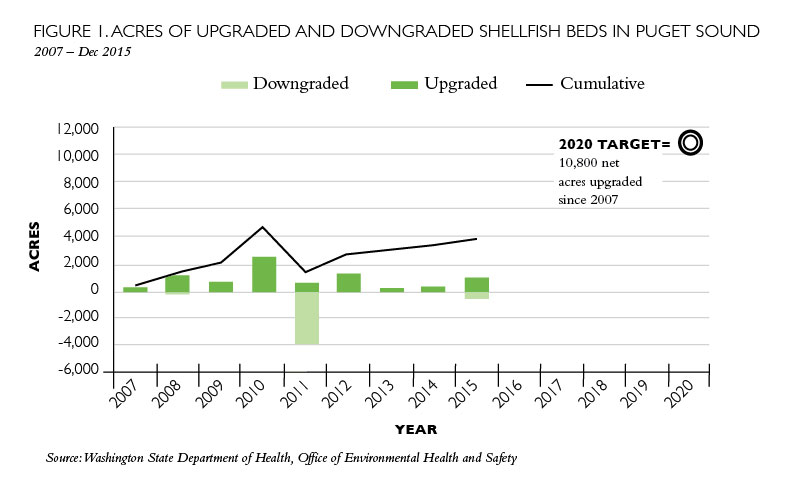
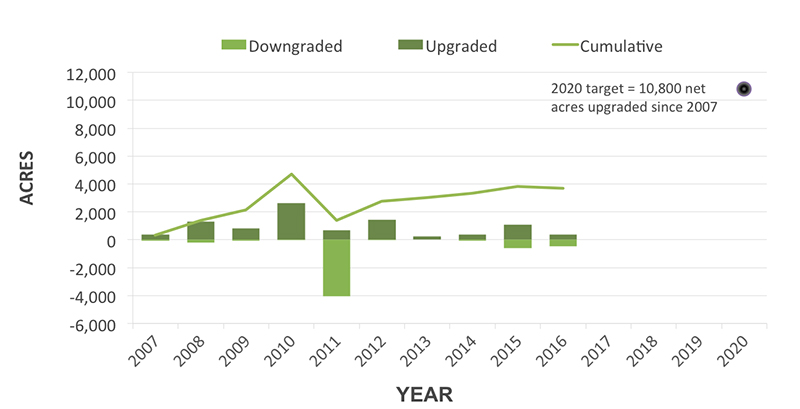
shellfish

diff --git a/includes/shellfish_title.html b/includes/shellfish_title.html
@@ -15,7 +15,7 @@
 		</div>
 		<div id="vitalheaderrightphoto">
 			
-			<div class="photoCredit">Data last updated on January 29, 2016<br />
+			<div class="photoCredit">Data last updated on October 31, 2016<br />
 			Photo Credit: Taylor Shellfish Farms</div></div>
 	</div>
 	<div id="roundcornerbottom"><img src="img/rounded_rounded_bottom.jpg" width="960" height="20" /></div>

diff --git a/shellfish_beds_reopened_indicator1.php b/shellfish_beds_reopened_indicator1.php
@@ -41,11 +41,11 @@ $(function() {
 				<!--*********************************GREEN HEADER*********************************-->
 				<div class="greenBarHeader">What is the indicator? </div>
 				<h5>This indicator is the acres of harvestable shellfish beds.</h5>
-				<p>The Washington State Department of Health classifies 92 different shellfish growing areas in Puget Sound, covering roughly 190,000 acres. Upgrades in classification mean that water quality has improved, allowing for fewer restrictions on shellfish harvest. </p>
-				<p>Sites are classified as “approved,” “conditionally approved,” “restricted,” or “prohibited.” Downgrades mean there are either more restrictions on when shellfish may be harvested or no harvest is allowed at any time. Downgrades are generally caused by fecal bacteria or other pollutants in the water that make shellfish unsafe to eat. Any shellfish bed, whether in the prohibited or restricted class, whose status is upgraded, results in newly harvestable acres are counted toward the 2020 target. </p>
-				<p>The shellfish harvest area classification process is defined in federal rules and adopted in state regulations. The Department of Health implements the rules at the state level. The purpose of the Department of Health program is to assure that harvested shellfish are safe to consume. This also includes making certain that pollution sources are continually assessed and marine water quality monitored around every classified harvest area. The data collected for the classification process not only represent the conditions that dictate shellfish harvest, but their trends can also indicate a healthier Puget Sound.</p>
-				<p>Department of Health samples more than 1,200 marine water stations between six and 12 times each year for fecal coliform bacteria, salinity, and temperature. A minimum of 30 of the most recent samples from each marine water station are used to classify each shellfish harvesting area. In addition, shoreline pollution sources, including wastewater treatment plants, individual on-site sewage systems, marinas, farms, and any other activity with the potential to impact the shellfish area, are evaluated periodically and results are integrated in the classification process. </p>
-				
+				<p>The Washington State Department of Health classifies  95 different shellfish growing areas in Puget Sound, covering roughly  225,000 acres. Upgrades in classification mean that water quality has improved, allowing for fewer restrictions on shellfish harvest. </p>
+				  <p>Sites are classified as &ldquo;approved,&rdquo; &ldquo;conditionally approved,&rdquo; &ldquo;restricted,&rdquo; or &ldquo;prohibited.&rdquo; Downgrades mean there are either more restrictions on when shellfish may be harvested or no harvest is allowed at any time. Downgrades are generally caused by fecal bacteria or other pollutants in the water that make shellfish unsafe to eat. Any shellfish beds  classified as conditionally approved, restricted, or prohibited  whose status is upgraded, results in newly harvestable acres and are counted toward the 2020 target.</p>
+				  <p>The shellfish harvest area classification process is defined in federal rules and adopted in state regulations. The Department of Health implements the rules at the state level. The purpose of the Department of Health program is to assure that harvested shellfish are safe to consume. This also includes making certain that pollution sources are continually assessed and marine water quality monitored around every classified harvest area. The data collected for the classification process not only represent the conditions that dictate shellfish harvest, but their trends can also indicate a healthier Puget Sound.</p>
+			    <p>Department of Health samples more than  1,700 marine water stations between  6 and 12 times each year for fecal coliform bacteria, salinity, and temperature. A minimum of 30 of the most recent samples from each marine water station are used to classify each shellfish harvesting area. In addition, shoreline pollution sources, including wastewater treatment plants, individual on-site sewage systems, marinas, farms, and any other activity with the potential to impact the shellfish area, are evaluated periodically and results are integrated in the classification process. </p>
+
 				<!--	<table width="690" border="1" class="vstable">
 					<tbody>
 					
@@ -87,7 +87,7 @@ $(function() {
 				--> 
 				<!--*********************************GREEN HEADER*********************************-->
 				</p>
-				<div class="greenBarHeader">What are the targets?</div>
+			  <div class="greenBarHeader">What are the targets?</div>
 				<h5>2020 target</h5>
 				<p>A net increase of 10,800 harvestable shellfish acres between 2007 and 2020, including 7,000 acres where harvest had been prohibited.</p>
 				<h5>Interim target</h5>
@@ -111,17 +111,21 @@ $(function() {
 			<div>
 				<h5>Is the indicator making progress toward the 2020 target? </h5>
 				<p> <span><img src="images/status_getting_better.png" width="118" height="121" alt=""/>Yes, this indicator has made gains relative to the baseline reference.</p>
-				<p>Because there was an overall increase in cumulative net area since 2007, including from the prohibited category, the indicator is making progress toward 2020 target. </p>
-				<p>The shellfish growing areas in Puget Sound cover roughly 190,000 acres. About 81% (154,000 acres) of the shellfish growing areas are suitable for harvest. </p>
-				<p>Since 2007 (the baseline reference), more acres of shellfish beds were upgraded than downgraded across all classifications, resulting in a net increase of 3,813 acres of harvestable shellfish beds (8,893 acres gain, 5,080 acres loss). During the same time period, a net 4,339 acres of shellfish beds were upgraded from the “prohibited” classification (4,535 acres upgraded minus 196 acres downgraded to “prohibited”). </p>
-				<p>However, little progress has been made since 2012. The upgrades in growing area classifications since 2007 were dramatically offset by the 2011 downgrade of the Samish Bay shellfish growing area (4,037 acres), impacting the overall net acreage gained and slowing progress toward the 2020 target.</p>
-				<p>Little progress has been made since the setback in 2011, and thus the current net increase in harvestable shellfish area is only at 26% of the 2020 target. </p>
-				<h5>Did the indicator meet its 2014 interim target?</h5>
+				<p>Because there was an overall increase in cumulative net area of harvestable shellfish beds since 2007, including from the prohibited category, the indicator is making progress toward the 2020 target.</p>
+				  <p>The shellfish growing areas in Puget Sound cover roughly  225,000 acres. About  84% ( 188,000 acres) of the shellfish growing areas are suitable for harvest.</p>
+				  <p>Since 2007 (the baseline reference), more acres of shellfish beds were upgraded than downgraded across all classifications, resulting in a net increase of  3,695 acres of harvestable shellfish beds ( 9,254 acres gain,  5,559 acres loss). During the same time period, a net  4,540 acres of shellfish beds were upgraded from the &ldquo;prohibited&rdquo; classification ( 4,745 acres upgraded minus  205 acres downgraded to &ldquo;prohibited&rdquo;).</p>
+				  <p>The upgrades in growing area classifications since 2007 were dramatically offset by the 2011 downgrade of the Samish Bay shellfish growing area (4,037 acres), impacting the overall net acreage gained and slowing progress toward the 2020 target.</p>
+			    <p>The current net increase in harvestable shellfish area is  34% of the 2020 target. </p>
+<h5>Did the indicator meet its 2014 interim target?</h5>
+                <p>No, this indicator did not meet its 2014 interim target.</p>
+                
+                <h3>
+					TABLE 1.</h3> 
+                    <h4>PROGRESS TOWARD 2014 INTERIM TARGET</h4>
+					</caption>
 				<!-- TABLE 1 -->
 				<table width="600" border="1" cellspacing="0" cellpadding="0" class="vstable">
-					<caption>
-					TABLE 1: PROGRESS TOWARD 2014 INTERIM TARGET
-					</caption>
+					
 					<thead>
 						<tr>
 							<th>2014 INTERIM TARGET</th>
@@ -141,19 +145,24 @@ $(function() {
 				
 				<!--*********************************GREEN HEADER*********************************-->
 				<div class="greenBarHeader">Data</div>
-				<p> <img src="images/shellfish_2007-dec2015.jpg" width="800" height="487" alt=""/></p>
-				<p>Since 2007, the baseline reference year, sanitary conditions in some shellfish harvest areas improved enough to change their classifications for the better, and they were upgraded (cumulative total was 8,893 acres as of Dec 2015). However, others changed for the worse and were downgraded (cumulative total of 5,080 acres, the majority of which was in Samish Bay). The net result was an increase of 3,813 acres reopened for harvest for all of Puget Sound, which is about 35% of the 2020 target of 10,800 acres. </p>
-				<!-- TABLE 2 -->
+              <h3>FIGURE 1.</h3>
+          <h4>ACRES OF UPGRADED AND DOWNGRADED SHELLFISH BEDS IN PUGET SOUND<br />
+          <em>2007 through September 2016</em> </h4>
+				<p> <img src="images/shellfish_2007-dec2015.jpg" alt="ACRES OF UPGRADED AND DOWNGRADED SHELLFISH BEDS IN PUGET SOUND"/></p>
+				<blockquote><p><em>Source: Washington State Department of Health, Office of Environmental Health and Safety</em></p></blockquote>
+				  <p>Since 2007, the baseline reference year, sanitary conditions in some shellfish harvest areas improved enough to change their classifications for the better, and they were upgraded (cumulative total was  9,254 acres as of September 30, 2016). However, others changed for the worse and were downgraded (cumulative total of  5,559 acres, the majority of which was in Samish Bay). The net result was an increase of  3,695 acres reopened for harvest for all of Puget Sound, which is about  34% of the 2020 target of 10,800 acres. </p>
+<h3>TABLE 2.</h3> <h4>CLASSIFICATION AND ACREAGE OF SHELLFISH GROWING AREAS IN PUGET SOUND</h4>
+			    <!-- TABLE 2 -->
 				<table width="690" border="1" class="vstable">
-					<caption>
-					TABLE 2. CLASSIFICATION AND ACREAGE OF SHELLFISH GROWING AREAS IN PUGET SOUND
-					</caption>
-					<thead>
+					
+					
+					
+				  <thead>
 						<tr>
 							<th width="300">CLASSIFICATION</th>
 							<th width="600">DEFINITION</th>
 							<th width="100">ACREAGE
-								 (Dec 2015)</th>
+								(Jan 2016 )</th>
 						</tr>
 					</thead>
 					<tfoot><tr><td colspan="3">Source: Washington State Department of Health, Office of Environmental Health and Safety</td></tr></tfoot>
@@ -163,7 +172,7 @@ $(function() {
 						<tr class="lightgreen">
 							<td width="300">Approved: commercial harvest for direct marketing</td>
 							<td width="600">Sanitary survey shows the area is not subject to contamination that presents an actual or potential public health hazard.</td>
-							<td width="100">143,678</td>
+							<td width="100">143,997</td>
 						</tr>
 						<tr>
 							<td width="300">Conditionally Approved: opened or closed for predictable periods of time</td>
@@ -173,17 +182,17 @@ $(function() {
 						<tr class="lightgreen">
 							<td width="300">Restricted: cannot be marketed directly and must be transplanted to Approved growing areas for a specified amount of time</td>
 							<td width="600">Meets standards for an Approved criteria, but the sanitary survey indicates&nbsp;a limited degree of pollution from non-human sources. Harvest must be transplanted to Approved growing areas to allow shellfish to naturally cleanse themselves of&nbsp;contaminants before they can be marketed.&nbsp;&nbsp;</td>
-							<td width="100">247</td>
+							<td width="100">33,671 </td>
 						</tr>
 						<tr>
 							<td width="300">Prohibited: closed to commercial and recreational harvest</td>
 							<td width="600">When the sanitary survey indicates harmful substances may be present in concentrations that pose a health risk. Growing areas that have not undergone a sanitary survey are also classified as Prohibited.</td>
-							<td width="100">36,478</td>
+							<td width="100">36,755 </td>
 						</tr>
 						<tr class="lightgreen">
 							<td width="300">Total</td>
 							<td width="600">&nbsp;</td>
-							<td width="100"><strong>191,025</strong></td>
+							<td width="100"><strong>225,045</strong> </td>
 						</tr>
 					</tbody>
 				</table>
@@ -191,12 +200,11 @@ $(function() {
 				
 				<br />
 				<br />
-				
+				<h3>TABLE 3.</h3>
+                <h4>GROWING AREAS WITH CLASSIFICATION CHANGES IN 2016 (as of September 30, 2016)</h4>
 				<!-- TABLE 3 -->
-				<table width="600" border="1" class="vstable">
-					<caption>
-					Growing Areas with Classification Changes in 2014 and 2015 (as of May 2015)
-					</caption>
+			  <table width="600" border="1" class="vstable">
+					
 					<thead>
 						<tr>
 							<th> GROWING AREA</th>
@@ -214,73 +222,66 @@ $(function() {
 						<tr class="lightgreen">
 							<td>PORTAGE BAY</td>
 							<td>0</td>
-							<td>-496</td>
+							<td>-300</td>
 							<td>Approved</td>
 							<td>Conditional</td>
 						</tr>
 						<tr>
 							<td>POVERTY BAY</td>
-							<td>129</td>
 							<td>0</td>
-							<td>Conditional</td>
+							<td>-130</td>
 							<td>Approved</td>
+							<td>Conditional</td>
 						</tr>
 						<tr class="lightgreen">
-							<td>PICKERING PASSAGE</td>
+							<td>PADILLA BAY</td>
+							<td>151</td>
 							<td>0</td>
-							<td>-31</td>
-							<td>Approved</td>
 							<td>Conditional</td>
+							<td>Approved</td>
 						</tr>
 						<tr>
 							<td>VAUGH BAY</td>
 							<td>0</td>
-							<td>-55</td>
+							<td>-40</td>
 							<td>Approved</td>
 							<td>Conditional</td>
 						</tr>
 						<tr class="lightgreen">
-							<td>HOOD CANAL 6</td>
+							<td>ROCKY BAY</td>
 							<td>0</td>
-							<td>-17</td>
+							<td>-9</td>
 							<td>Approved</td>
-							<td>Conditional</td>
+							<td>Prohibited</td>
 						</tr>
 						<tr>
-							<td>KETRON ISLAND</td>
-							<td>208</td>
+							<td>QUARTERMASTER HARBOR</td>
+							<td>180</td>
 							<td>0</td>
 							<td>Prohibited</td>
 							<td>Approved</td>
 						</tr>
 						<tr class="lightgreen">
-							<td>DUNGENESS BAY</td>
-							<td>688</td>
-							<td>0</td>
-							<td>Conditional</td>
-							<td>Approved</td>
-						</tr>
-						<tr>
-							<td>DUNGENESS BAY</td>
-							<td>40</td>
+							<td>COLVOS PASSAGE</td>
+							<td>30</td>
 							<td>0</td>
 							<td>Prohibited</td>
-							<td>Conditional</td>
+							<td>Approved</td>
 						</tr>
+						
 					</tbody>
 				</table>
 				
-<p>Only 264 acres and 358 acres of shellfish beds were reopened for harvest in 2013 and 2014, respectively. Comparatively little acreage was downgraded in those same years (no downgrades in 2013 and only 49 acres in 2014). In 2015, 1,065 acres of growing area were downgraded as of Dec.</p>
-<p>Of the total harvest area classified in 2015, approximately 154,000 acres, or 81% were “approved” or “conditionally approved” for harvest. Thus, shellfish harvest is still possible in most of the areas under Department of Health jurisdiction, and these areas are distributed across all sub-basins of Puget Sound.</p>
-<p>In contrast, more than 36,000 acres (19%) of shellfish harvest areas were classified as “prohibited” due to the proximity of pollution sources or poor water quality. More than 60% of this acreage is prohibited because of a nearby wastewater treatment plant outfall, 29% because of nonpoint pollution sources, 8% because of marinas, and 2% because of other factors that could impact public health.</p>
-<p>The most recent Department of Health prediction indicates that 9,393 acres could potentially be upgraded between 2014 and 2020. This analysis incorporates information about the known or suspected causes of harvest restrictions and an area-by-area evaluation of the current activities and water quality trends. These projections, coupled with the current 2007 through September 2014 net acreage increase of 3,057 acres, results in a potential increase of 12,450 acres by 2020, just above the 10,800 acres target value. Downgrades will occur during the same timeframe, counteracting the projected upgrades and potentially impacting the ability to meet the target value. </p>
+<p> In 2014, water quality improved on 358 acres of shellfish harvesting areas; improvements were found on 1,065 acres in 2015. Comparatively, water quality impairment resulted in restrictions on 49 acres of harvest area in 2014 and 599 acres in 2015.</p>
+ <p>Of the total harvest area classified in  2016, approximately 154,000 acres, or  68% were &ldquo;approved&rdquo; or &ldquo;conditionally approved&rdquo; for harvest. Thus, shellfish harvest is still possible in most of the areas under Department of Health jurisdiction, and these areas are distributed across all sub-basins of Puget Sound.</p>
+ <p>In contrast, more than 36,000 acres ( 16%) of shellfish harvest areas were classified as &ldquo;prohibited&rdquo; due to the proximity of pollution sources or poor water quality. More than 60% of this acreage is prohibited because of a nearby wastewater treatment plant outfall, 29% because of nonpoint pollution sources, 8% because of marinas, and 2% because of other factors that could impact public health.</p>
+<p>The most recent Department of Health prediction indicates that  10,285 acres could potentially be upgraded between  2016 and 2020. This analysis incorporates information about the known or suspected causes of harvest restrictions and an area-by-area evaluation of the current activities and water quality trends. These projections, coupled with the current 2007 through September  2016 net acreage increase of  3,695 acres, results in a potential increase of  13,980 acres by 2020,  above the 10,800 acres target value. Downgrades will occur during the same timeframe, counteracting the projected upgrades and potentially impacting the ability to meet the target value. </p>
 <h5>Why is it happening? </h5>
-<p>Implementation of effective pollution identification and correction (PIC) and on-site sewage system operation and maintenance programs have resulted in the correction of pollution sources. These corrections have led to improved water quality and upgraded shellfish acreage.</p>
+<p>Implementation of effective pollution identification and correction (PIC) programs, agricultural best management practices, and on-site sewage system operation and maintenance programs have resulted in the correction of pollution sources. These corrections have led to improved water quality and upgraded shellfish acreage.</p>
 <p>Although the Sound-wide trend in improvement is positive, many factors affect the long-term ability to reach the target. Unless there are aggressive actions to improve farm management, wastewater treatment plant outfall locations, and to sustain on-site septic system operation and maintenance, and PIC the 2020 target may not be met.</p>
 
-				
-				<!--*********************************GREEN HEADER*********************************-->
-				<div class="greenBarHeader">Maps</div>
+<!--*********************************GREEN HEADER*********************************-->
+			  <div class="greenBarHeader">Maps</div>
 				<p><a href="http://www.doh.wa.gov/Portals/1/Documents/4400/ai-map.pdf">Shellfish Growing Areas from Department of Health</a><br />
 				</p>
 				<p><em><a href="https://fortress.wa.gov/doh/eh/maps/OSWPViewer/index.html">Source: Washington Department of Health, Office of Shellfish and Water Protection</a></em><a href="https://fortress.wa.gov/doh/eh/maps/OSWPViewer/index.html"><br />
